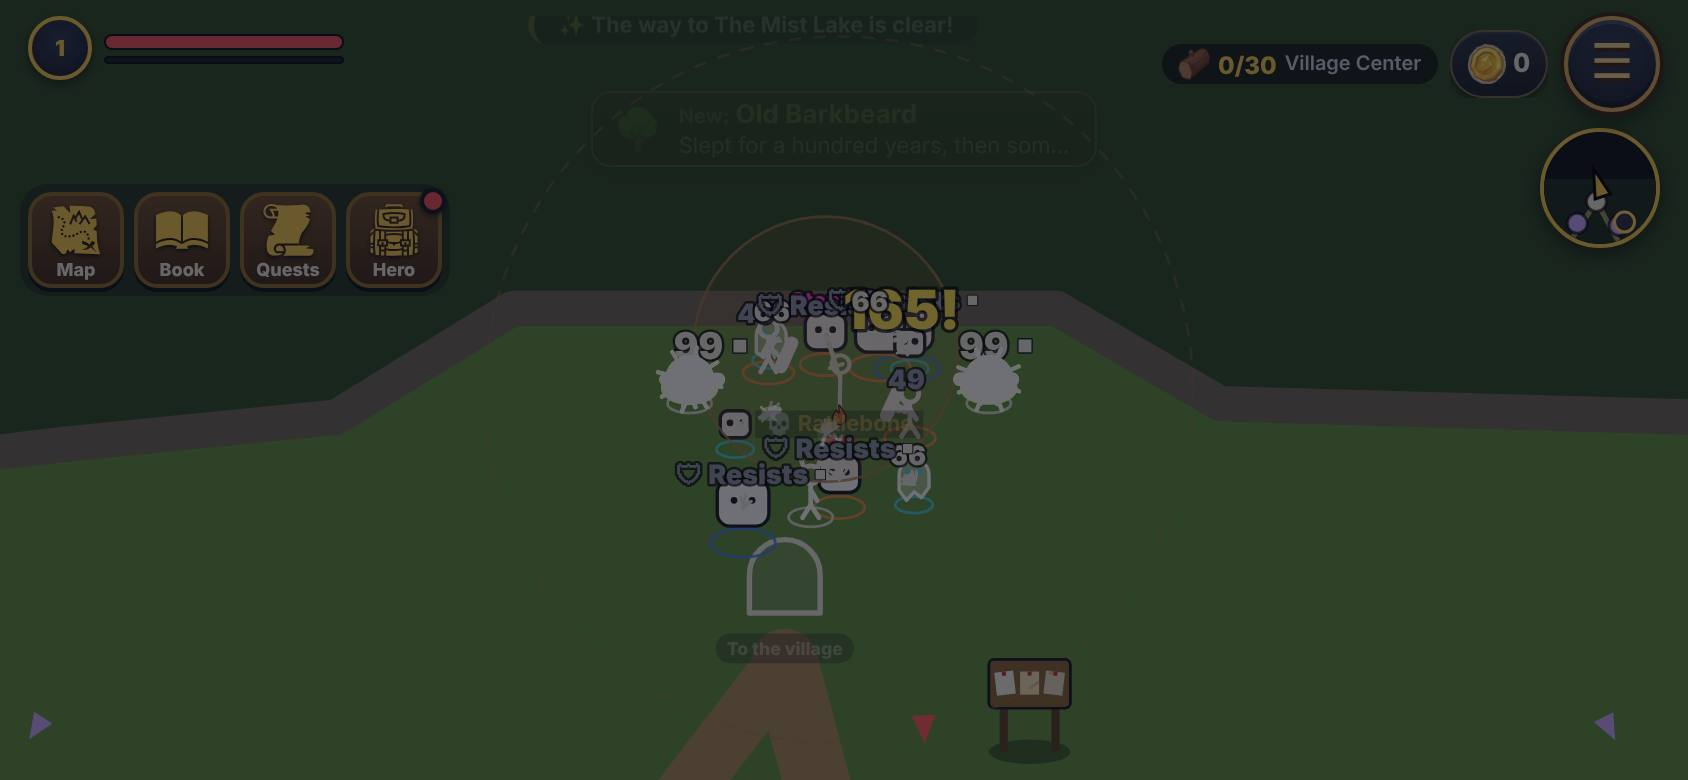
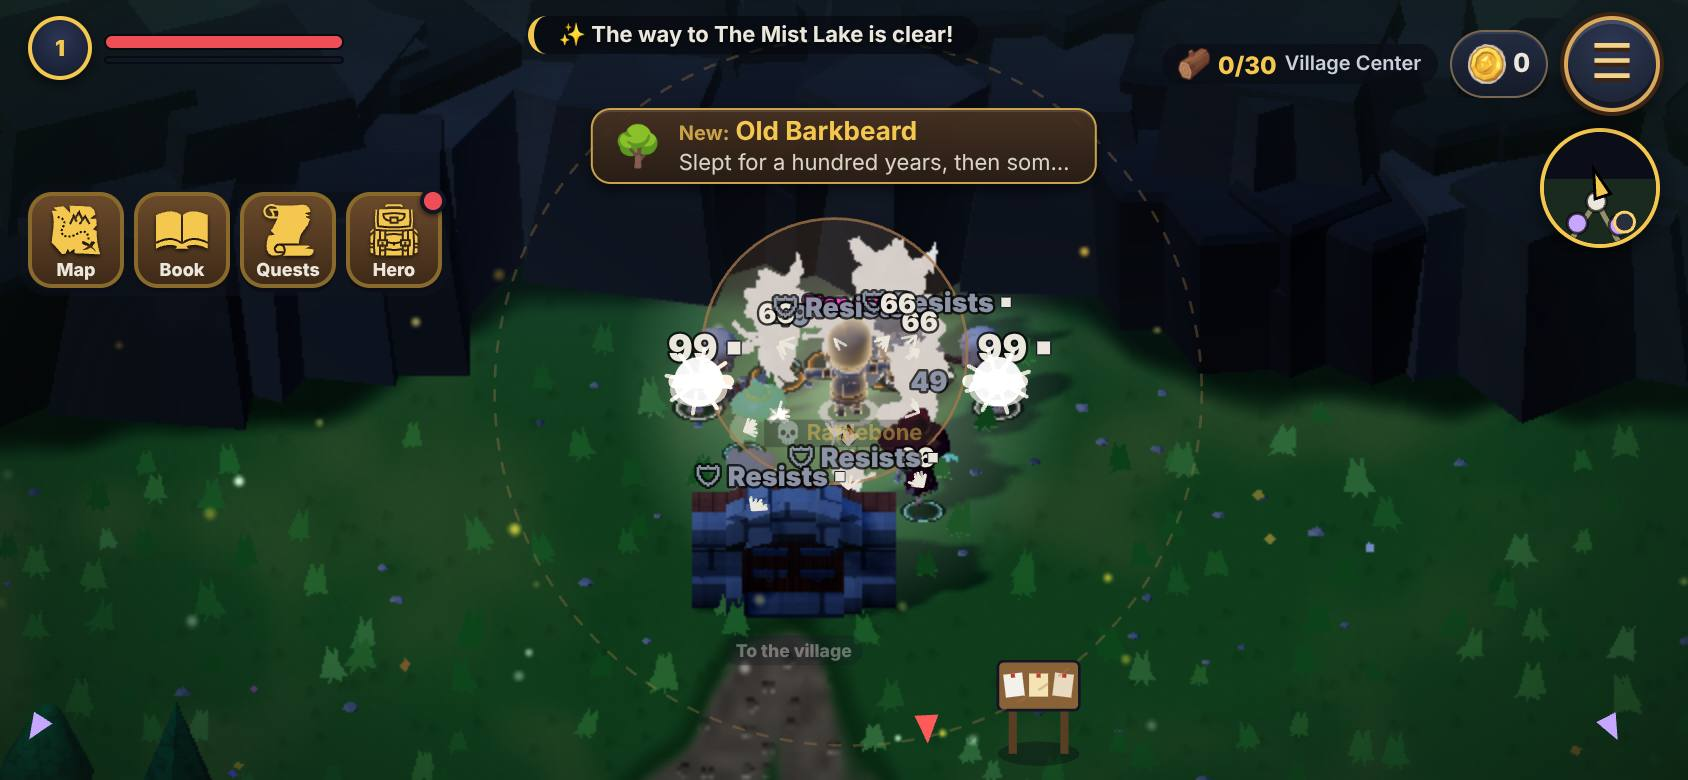
קריאות 2: מספרי נזק לא עולים על שם שנשאר ברור ולא אחד על השני, וצילומים בתלת-ממד
Claude-Session: https://claude.ai/code/session_01ABMDoLXrHF6nKHE6QPE84L

diff --git a/js/readable2.js b/js/readable2.js
@@ -16,20 +16,20 @@ const READ2={
     col:{danger:'#FF4FD8',now:'#F4C74F',info:'#EDE8DA'},   // סכנה: מג'נטה כמו האזהרות על הרצפה (FXC.tg.col), אבל על רקע כהה משלה
     pri:{danger:3,now:2,info:1}},
   // מספרי נזק. hero: התיבה של הגיבור והמסלול מעליו (יחידות משחק): חצי רוחב, כמה למעלה מהרגליים, כמה למטה
-  nums:{near:120,cap:4,hero:{w:24,lane:62,up:64,down:14},gapX:6,crowd:6,crowdR:220,merge:0.4,mergeCrowd:0.65},
+  nums:{near:120,cap:4,hero:{w:24,lane:62,up:64,down:14},gapX:6,crowd:6,crowdR:220,drift:0.3,merge:0.4,mergeCrowd:0.65},
   lbl:{full:1,dim:0.32},   // בקרב: השם המלא (המטרה/החשוב) בלי שקיפות, והשאר עמומים יותר מ-LABELS.fight.a
   calm:0.35,               // כמה שניות בלי קרב עד שכרטיס או הודעה גדולה מופיעים
   cardWait:30,             // אחרי כמה שניות של קרב רצוף הכרטיס מופיע בכל זאת
-  stat:{head:0,headDanger:0,headOver:0,numPush:0,numStack:0,numCap:0,numOnHero:0,cardHeld:0,cardShown:0,lblDim:0,lblFix:0,bigHeld:0,crowd:0}
+  stat:{head:0,headDanger:0,headOver:0,numPush:0,numStack:0,numLbl:0,numCap:0,numOnHero:0,cardHeld:0,cardShown:0,lblDim:0,lblFix:0,bigHeld:0,crowd:0}
 };
-const R2={want:null,fix:[],fightT:-9,fight:false,crowd:0,fr:-1};
+const R2={want:null,fix:[],lbl:[],lblNext:[],fightT:-9,fight:false,crowd:0,fr:-1};
 const r2On=()=>READ2.on&&!!S&&!!S.wd&&!S.mb;
 const r2Now=()=>performance.now()/1000;
 const r2Calm=()=>typeof calmOn==='function'?calmOn():(typeof RM!=='undefined'&&RM);
 
 /* ---- מצב הקרב, פעם בפריים ---- */
 function r2Frame(){
-  R2.fix.length=0;if(!r2On())return;
+  R2.fix.length=0;R2.lbl=R2.lblNext;R2.lblNext=[];if(!r2On())return;
   const f=typeof msgFight==='function'?msgFight():false;R2.fight=f;if(f)R2.fightT=r2Now();
   let n=0;const N=READ2.nums,r=N.crowdR;
   if(f&&typeof enemies!=='undefined')for(const e of enemies)if(!e.dead&&Math.abs(e.x-P.x)<r&&Math.abs(e.y-P.y)<r)n++;
@@ -62,6 +62,8 @@ function r2HeadDraw(){
 }
 
 /* ---- 2. מספרי נזק ---- */
+const r2NumW=f=>f.txt.length*f.size*0.34+4;            // חצי רוחב של מספר (בערך)
+const r2NumH=f=>f.size*(f.crit?1.35:1.05);              // גובה של מספר
 function r2HeroHit(f){   // האם המספר (קו הבסיס y, גובה size) נופל על הגיבור או על המסלול מעליו
   const Hb=READ2.nums.hero,tw=f.txt.length*f.size*0.32+4,top=P.y-(P.r||14)-Hb.up,bot=P.y+Hb.down,lane=P.y-(P.r||14)-READ2.head.up+8;
   if(f.y<=top||f.y-f.size>=bot)return false;
@@ -76,10 +78,14 @@ function r2Num(e){
   // לא על הגיבור: הצידה, לצד שבו האויב (או לצד שהמספר כבר נוטה אליו)
   if(r2HeroHit(f)){const side=Math.sign(e.x-P.x)||(f.dx>=0?1:-1),tw=f.txt.length*f.size*0.32+4,hw=f.y-f.size<P.y-(P.r||14)-READ2.head.up+8?N.hero.lane:N.hero.w;
     f.x=P.x+side*(hw+tw+N.gapX);f.dx=Math.abs(f.dx)*side;st.numPush++}
-  // לא אחד על השני: מספר שעולה על מספר אחר עולה מעליו (עד 3 פעמים), כך שבקבוצה הם נפרשים מעל האויבים
-  const tw=f.txt.length*f.size*0.32+4;
-  for(let k=0;k<3;k++){let c=null;for(const g of J.n)if(g!==f&&Math.abs(g.x-f.x)<tw+g.txt.length*g.size*0.32+4&&Math.abs(g.y-f.y)<(f.size+g.size)*0.5){c=g;break}
-    if(!c)break;f.y=c.y-(f.size+c.size)*0.55-3;st.numStack++;if(r2HeroHit(f)){const side=Math.sign(f.x-P.x)||1;f.x=P.x+side*(N.hero.lane+tw+N.gapX)}}
+  // לא אחד על השני ולא על שם שנשאר ברור (מטרה, עלית, בוס: R2.lbl מהפריים הקודם): עולה מעליו, עד 4 פעמים,
+  // כך שבקבוצה המספרים נפרשים מעל האויבים. קריטי נמדד גבוה יותר, כי הוא קופץ גדול בהתחלה
+  f.dx*=N.drift;const tw=r2NumW(f);
+  for(let k=0;k<4;k++){let top=null;
+    for(const g of J.n)if(g!==f&&Math.abs(g.x-f.x)<tw+r2NumW(g)&&f.y>g.y-r2NumH(g)-2&&g.y>f.y-r2NumH(f)-2){top=g.y-r2NumH(g)-3;break}
+    if(top==null)for(const L of R2.lbl)if(f.x+tw>L.l&&f.x-tw<L.r&&f.y+3>L.t&&f.y-r2NumH(f)<L.b){top=L.t-3;st.numLbl++;break}
+    if(top==null)break;f.y=top;st.numStack++;
+    if(r2HeroHit(f)){const side=Math.sign(f.x-P.x)||1;f.x=P.x+side*(N.hero.lane+tw+N.gapX)}}
   // תקרה ליד הגיבור: הוותיק שאינו קריטי נזרק
   let near=0;for(const g of J.n)if(Math.hypot(g.x-P.x,g.y-P.y)<N.near)near++;
   while(near>N.cap){let k=-1;for(let i=0;i<J.n.length;i++){const g=J.n[i];if(g!==f&&!g.crit&&Math.hypot(g.x-P.x,g.y-P.y)<N.near){k=i;break}}
@@ -93,6 +99,8 @@ function r2NumsOnHero(){const J=S&&S.jc;if(!J)return 0;let n=0;for(const f of J.
 function r2LblA(full){if(!r2On())return null;if(!full)READ2.stat.lblDim++;return full?READ2.lbl.full:READ2.lbl.dim}
 // מקומות תפוסים שהשמות לא עולים עליהם (פיקסלים של מסך, כמו ב-lblFlush): שלטים של שערים והמסלול מעל הגיבור
 function r2Fix(x,y,w,h){if(r2On())R2.fix.push({l:x*ZOOM,r:(x+w)*ZOOM,t:y*ZOOM,b:(y+h)*ZOOM,fix:1})}
+// שם מלא שצויר (labels.js, קואורדינטות הציור): נשמר בקואורדינטות העולם, כדי שמספרי הנזק בפריים הבא לא יעלו עליו
+function r2LblPut(x,y,w,h){if(!r2On()||!S.cam)return;const ox=W/2-S.cam.x,oy=H/2-S.cam.y;R2.lblNext.push({l:x-ox,r:x+w-ox,t:y-oy,b:y+h-oy})}
 function r2Fixed(){
   const out=R2.fix;R2.fix=[];if(!r2On()||!S.cam)return out;
   const z=ZOOM||1,ox=W/2-S.cam.x,oy=H/2-S.cam.y,b=r2HeadBox(),hw=READ2.nums.hero.lane;

diff --git a/js/labels.js b/js/labels.js
@@ -57,7 +57,7 @@ function lblFlush(){
       if(c.fix&&(!low||c.b>low.b))low=c;
       y-=h+LABELS.gap/Z}
     if(!ok){st.hidden++;continue}
-    if(big)full++;st[big?'full':'icon']++;
+    if(big){full++;if(typeof r2LblPut==='function')r2LblPut(o.x-tw/2,y-fs*0.92,tw,h)}st[big?'full':'icon']++;   // מספרי הנזק לא עולים על שם מלא (readable2.js)
     if(fight){const a=typeof r2LblA==='function'?r2LblA(big):null;ctx.globalAlpha=a==null?LABELS.fight.a:a}   // בקרב: השם המלא (המטרה, החשוב) ברור, השאר עמומים (readable2.js)
     ctx.fillStyle=o.bg||LABELS.bg;ctx.fillRect(o.x-tw/2,y-fs*0.92,tw,h);ctx.fillStyle=o.col;ctx.fillText(t,o.x,y)}
   ctx.restore();ctx.direction=DIR;

diff --git a/docs/code-map.md b/docs/code-map.md
@@ -186,7 +186,7 @@
 | `js/vfx.js` | אופי ויזואלי בכפר ובעולם (`VFX`): אווירה לכל אזור (`mood`: שמש, שמיים, אובך ופינות), שעה ביום לפי השעון (`tod`: שחר, שקיעה, לילה כחול), כתם אור חם סביב הגיבור (`lamp`), לילה בהיר יותר בכפר (`night`, בלי שינוי בעולם) וכתמי אור על הקרקע מתחת לפנסים ובציוני הדרך (`pools`, `VFX.poolsSync`) וקו אור בקצוות שלו (`rim`). כל אחד נכבה ב-`VFX.parts`. `?vfx=off` מכבה, `?tod=night` שעה קבועה. עוטף את render3d מבחוץ, אחרי look-hd.js. לא בזירה |
 | `js/vfx3d.js` | ערכת אפקטים בתלת-ממד לסקילים (`VFX3D`, המספרים ב-`VFX3D_CFG`): מאגרי חלקיקים זוהרים ועשן (בלי הקצאות בפריים), שובל, מדבקות קרקע (גל הדף, סימון מטרה, חרוך, סדקים זוהרים, הבזק), כדור זוהר, עמוד אור (`pillar`), אור נקודתי קצר, ו-`burst('explode')`. גם הזוהר (bloom) של הכפר והעולם, ומתג "איכות אפקטים" (גבוהה/נמוכה, `SAVE.vfxQ`, ברירת מחדל לפי המכשיר). מחובר ב-render3d בשתי שורות (`VFX3D.frame`, `VFX3D.render`). רק בעולם, לא בזירה. `?bloom=0` מכבה את הזוהר |
 | `js/readable3d.js` | קריאות בכפר ובעולם (`READ3D`, ניר 7.11): עץ, סלע או מבנה בין המצלמה לגיבור נעשה שקוף בחלקו בעיגול סביבו (dither בכרטיס הגרפי, uniform אחד משותף, בלי עותקי חומרים), טבעת לבנה מתחת לגיבור, וצל מגע כהה וקו כהה דק סביב אויבים. עוטף את syncPlayer, syncEnemy, crowdAdd, syncWorld ו-syncVillage מבחוץ. לא בזירה. `?read=0` מכבה. האורות המסתובבים מתעמעמים ליד אויבים: `WISPS.calm` ב-wisps.js |
-| `js/readable2.js` | **קריאות שלב 2 בקרב צפוף בעולם** (`READ2`, ניר 10.11.2026: "חד אבל קריא"): אזהרה אחת בכל פעם במסלול מעל הראש ("Step out!"/"Now!" של skillteach.js דרך `r2Head`), בכדור כהה עם מסגרת בצבע משלה, מצוירת אחרונה. מספרי נזק לא על הגיבור ולא על המסלול (זזים לצד של האויב), עד `nums.cap` ליד הגיבור, ומיזוג ארוך יותר בקרב צפוף. בקרב השם המלא ברור והשאר עמומים (`r2LblA` ב-labels.js), והשמות לא עולים על שלטי השערים (`r2Fix` ב-world.js) ועל המסלול (`r2Fixed`). כרטיס "New" (foelore.js) וההודעה הגדולה (msglane.js) מחכים `READ2.calm` שניות אחרי הקרב (0.35). עוטף juiceHit, fxcTgDraw, msgPump, flCardVis ו-flCardNext. רק בעולם |
+| `js/readable2.js` | **קריאות שלב 2 בקרב צפוף בעולם** (`READ2`, ניר 10.11.2026: "חד אבל קריא"): אזהרה אחת בכל פעם במסלול מעל הראש ("Step out!"/"Now!" של skillteach.js דרך `r2Head`), בכדור כהה עם מסגרת בצבע משלה, מצוירת אחרונה. מספרי נזק לא על הגיבור ולא על המסלול (זזים לצד של האויב), לא אחד על השני ולא על שם מלא (`r2LblPut` ב-labels.js), עד `nums.cap` ליד הגיבור, ומיזוג ארוך יותר בקרב צפוף. בקרב השם המלא ברור והשאר עמומים (`r2LblA` ב-labels.js), והשמות לא עולים על שלטי השערים (`r2Fix` ב-world.js) ועל המסלול (`r2Fixed`). כרטיס "New" (foelore.js) וההודעה הגדולה (msglane.js) מחכים `READ2.calm` שניות אחרי הקרב (0.35). עוטף juiceHit, fxcTgDraw, msgPump, flCardVis ו-flCardNext. רק בעולם |
 | `js/skfx3d.js` | רישום מתכונים של סקילים בתלת-ממד (`SKFX3D.register(id,{start,frame,end})`). סורק את `S.wsb.fx` ומוצא לבד סקיל חדש ושנגמר. כשיש מתכון, `wsbDraw` מדלג על הציור הדו-ממדי. מתכון לכל סקיל בקובץ `js/skfx3d-<id>.js` |
 | `js/skfx3d-meteor.js` | המטאור בתלת-ממד (`MTR3D`): כדור אש נופל מהשמיים עם שובל, עשן ואור, סימון וצל שגדלים, ובפגיעה הבזק, גל הדף, ניצוצות, גחלים, עשן ומכתש חרוך. שביט קרח בצבעי קרח |
 | `js/skfx3d-volley.js` | מטר החצים בתלת-ממד (`VOL3D`): גלים של חצים זוהרים שיורדים מהשמיים עם שובל, ננעצים באדמה עם אבק וניצוצות ושוקעים. כל החצים בציור אחד (InstancedMesh), ועיגול מטרה פועם על הקרקע |
